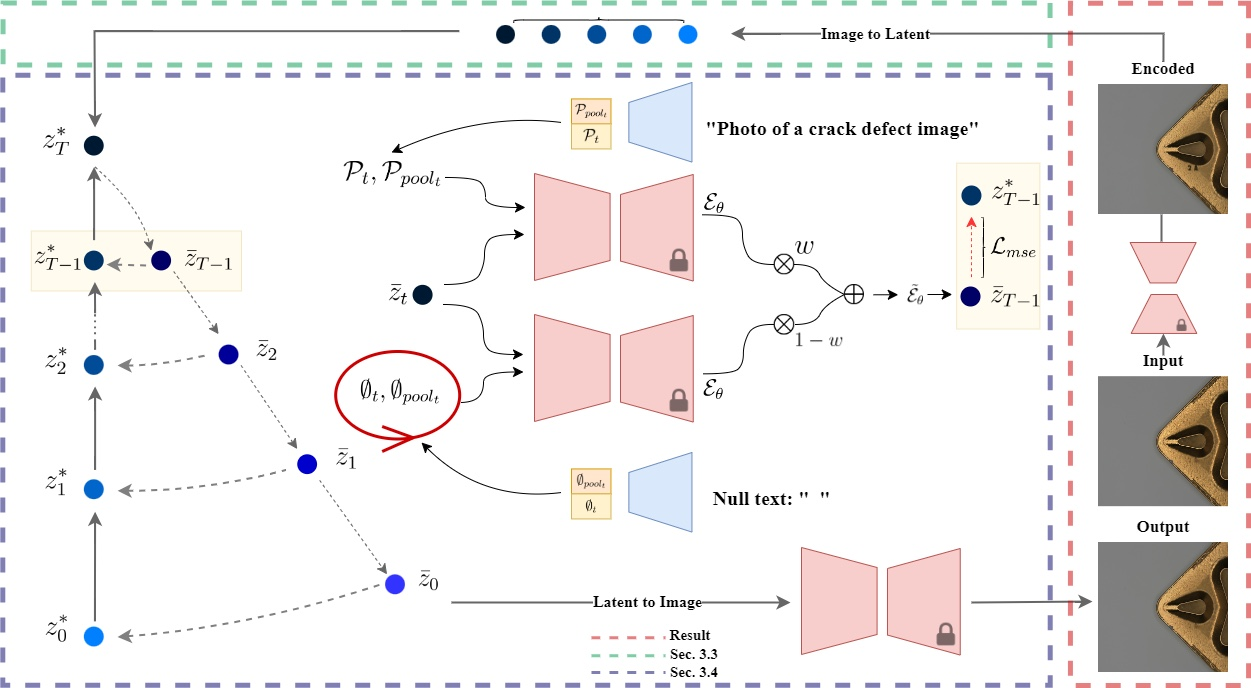
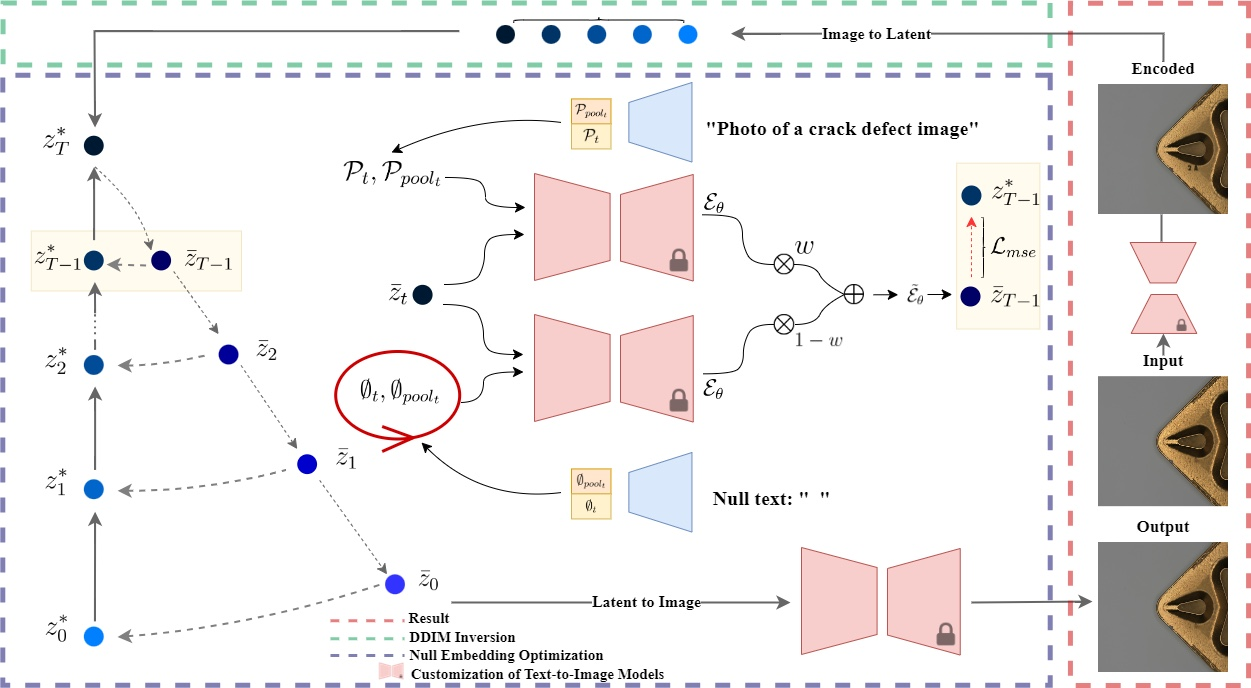
final

Changed region(s): [[0.2806, 0.8852, 0.5923, 1.0], [0.6547, 0.0305, 0.7482, 0.061], [0.4676, 0.8547, 0.5612, 0.8852]]

diff --git a/README.md b/README.md
@@ -1,2 +1,8 @@
 # DISN: Deterministic Synthesis of Defect Images using Null Optimization
+
+![Figure 1](./fig/Figure1.jpg)
+
+## abstract
+In the manufacturing industry, defect classification is crucial but hampered by challenges from imbalanced data, which often leads to model overfitting when data is scarce. One common solution is to use synthetic data from generative models; however, these models typically produce results that are structurally inconsistent. Addressing these concerns, this paper introduces a novel Null Embedding Optimization technique that generates latent representations closely resembling the original images, significantly enhancing the fidelity of generated images. This method ensures that synthetic images are not only visually similar to the originals but also subjected to a more extensive and diverse augmentation process, increasing the variability within the dataset. Consequently, this approach effectively doubles the usable dataset size and notably boosts the accuracy of AI classification models by up to 8\%. For those interested, the dataset and source code are accessible at https://github.com/ugiugi0823/DISN.
 ![Figure 3](./fig/Figure3.jpg)
+
